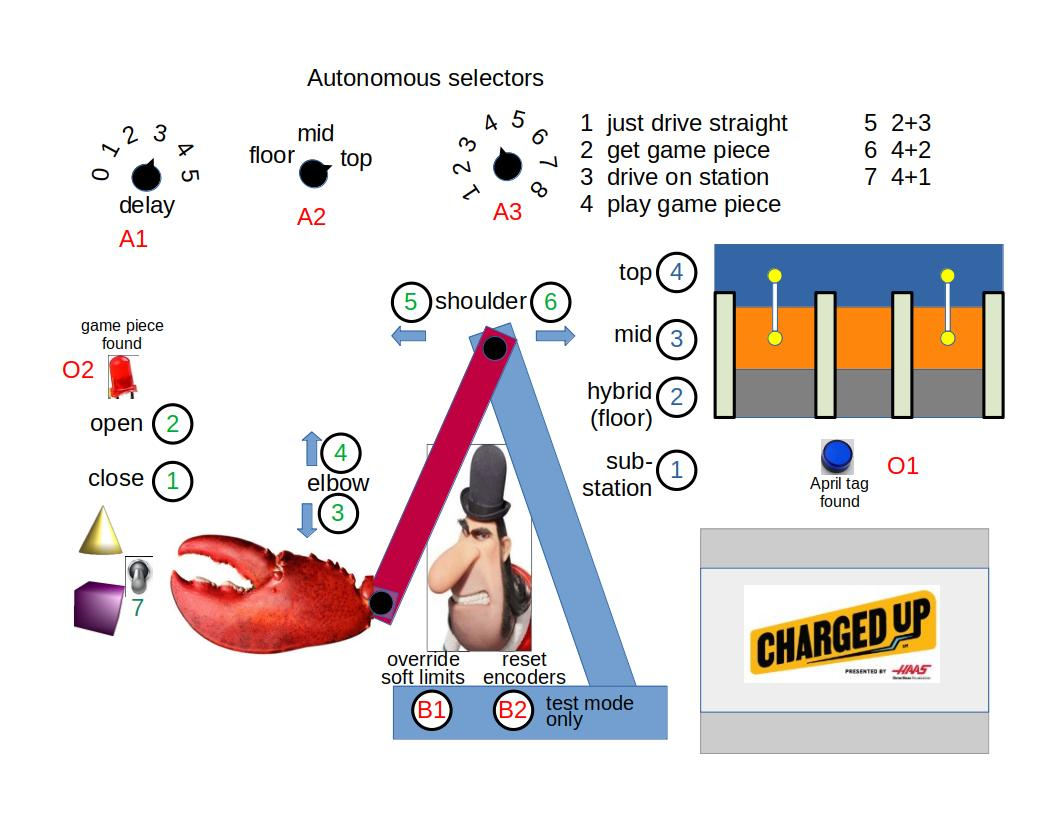
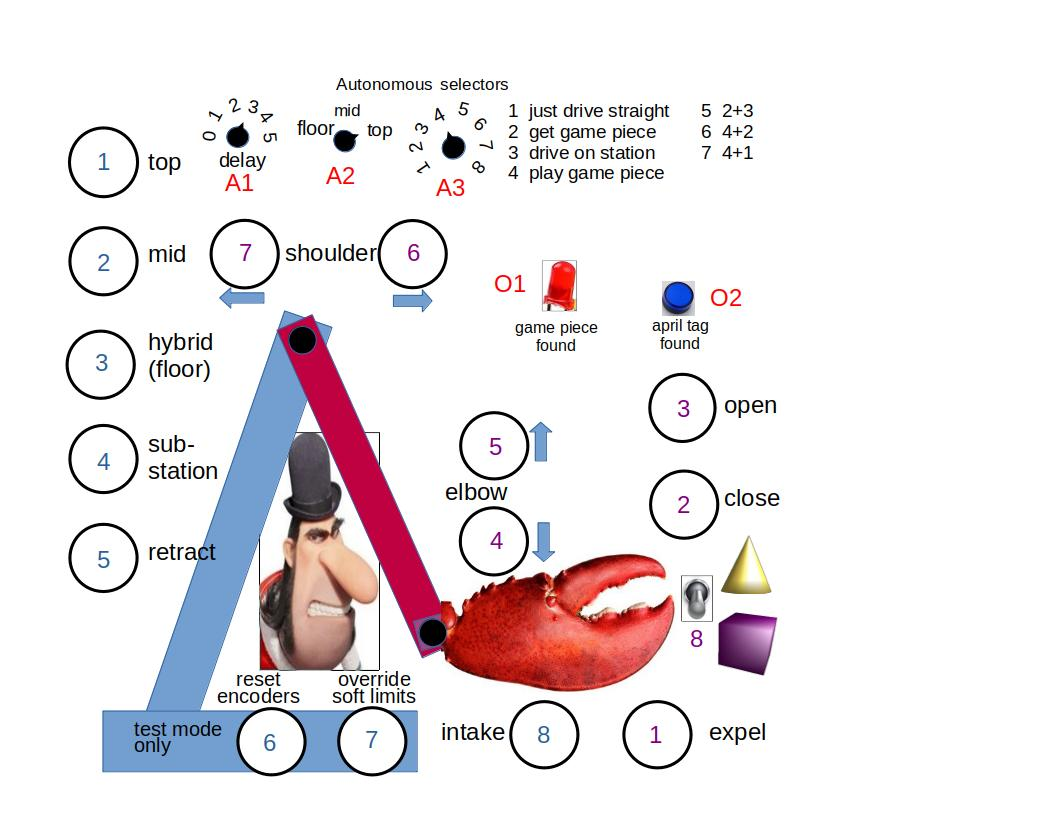
indicators for camera capture

diff --git a/CompBot/src/main/java/frc/robot/Constants.java b/CompBot/src/main/java/frc/robot/Constants.java
@@ -260,30 +260,29 @@ public final class Constants {
         public static final int kDriverControllerPort4 = 3; // ti launchpad
 
 
-        public static final int kgetAprilTagButton            = 0; // buttonBox
         public static final int kArmExtendPos0Button          = 1; // buttonBox
         public static final int kArmExtendPos1Button          = 2; // buttonBox
         public static final int targetRetractNudge            = 3; // buttonBox
         public static final int kgripperclosebutton           = 4; // buttonBox
-        public static final int kEndDriveGeneric              = 6; // buttonBox
-        public static final int kDriveGenericx                = 7; // buttonBox
-        public static final int kDriveGenericy                = 8; // buttonBox
-        public static final int kDriveGenericxy               = 9; // buttonBox
+        public static final int kEndDriveGeneric              = 0; // buttonBox
+        public static final int kDriveGenericx                = 0; // buttonBox
+        public static final int kDriveGenericy                = 0; // buttonBox
+        public static final int kDriveGenericxy               = 0; // buttonBox
         public static final int PRESSURESwitch                = 10;// buttonbox
-        public static final int kgripperliftbutton            = 0;
-        public static final int kgripperdownbutton            = 0;
-        public static final int kNudgeLeftButton              = 0;
+        public static final int targetcRaiseNudge             = 0;
+        public static final int targetLowerNudge              = 0;
+        public static final int kgetAprilTagButton            = 0; // buttonBox
         
         
 
         public static final int kgripperopenbutton            = 1; // box2
         public static final int targetExtendNudge             = 2; // box2
         public static final int kgetRobotPositionButton       = 3; // box2
+        public static final int kArmsubstationButton          = 4;
         public static final int kArmExtendPos2Button          = 5; // bux2
         public static final int kArmDone                      = 6; // box2
         public static final int kArmfloorButton               = 7; // box2
         public static final int kDrivertostationbutton        = 0; // box2
-        public static final int kArmsubstationButton          = 4;
 
         public static final int kDriverYAxis                  = 0;
         public static final int kDriverXAxis                  = 1;
@@ -295,8 +294,10 @@ public final class Constants {
         public static final int PixyFollowButton              = 6; // driverJoytick button right-bumper
 
         public static final int choiceswitch                  = 1; // ti launchpad axis
-        public static final int delaySwitch                   = 0; // ti launchpad axis
-        public static final int levelSwitch                   = 0; // ti launchpad axis
+        public static final int delaySwitch                   = 2; // ti launchpad axis
+        public static final int levelSwitch                   = 3; // ti launchpad axis
+        public static final int aprilTagLight                 = 1; // TI launchpad output
+        public static final int gameObjectLight               = 2; // TI launchpad output
 
         // test mode buttonbox buttons
 

diff --git a/CompBot/src/main/java/frc/robot/RobotContainer.java b/CompBot/src/main/java/frc/robot/RobotContainer.java
@@ -28,11 +28,10 @@ import frc.robot.commands.DriverStation;
 import frc.robot.commands.GetAprilTag;
 import frc.robot.commands.GetRobotPosition;
 import frc.robot.commands.GripperOpenClose;
-import frc.robot.commands.GripperUpAndDown;
-import frc.robot.commands.NudgeDrive;
 //import frc.robot.commands.SwerveJoystickCmd;
 import frc.robot.subsystems.SwerveSubsystem;
 import frc.robot.subsystems.Arm;
+import frc.robot.subsystems.GamePieceCam;
 import frc.robot.subsystems.Gripper;
 import frc.robot.subsystems.AprilTagCamera;
 
@@ -49,6 +48,7 @@ public class RobotContainer {
     private Gripper gripper;
     private AprilTagCamera camera;
     boolean old;  // true if original swerve constants
+    private GamePieceCam pixycam;
     
     public RobotContainer(boolean Old) {
         /*  swapped out to put drive function in teleopPeriodic
@@ -66,6 +66,7 @@ public class RobotContainer {
         if (old?Constants.ARM_AVAILABLE:Constants.ARM_AVAILABLE_Comp) arm = new Arm();
         if (old?Constants.GRIPPER_AVAILABLE:Constants.GRIPPER_AVAILABLE_Comp) gripper = new Gripper();
         if (old?Constants.PHOTONVISION_AVAILABLE:Constants.PHOTONVISION_AVAILABLE_Comp) camera = new AprilTagCamera();
+        if (old?Constants.PIXY_AVAILABLE:Constants.PIXY_AVAILABLE_Comp) pixycam = new GamePieceCam();
         configureButtonBindings();
     }
     public RobotContainer() {
@@ -103,7 +104,7 @@ public class RobotContainer {
         
                 // mechJoytick Buttons
          if (old?Constants.ARM_AVAILABLE:Constants.ARM_AVAILABLE_Comp) { 
-                // TODO: Add button for substation
+                // TODO: protect againt movement directly from floor to retracted
                 new JoystickButton(buttonBox2, OIConstants.kArmfloorButton).   //floor level
                   onTrue(new InstantCommand(() -> arm.makeMeDone()).
                   andThen(new WaitCommand(.5)).
@@ -130,6 +131,10 @@ public class RobotContainer {
                   onTrue(new InstantCommand(() -> arm.retargetRetract(1.)));
                 new JoystickButton(buttonBox, OIConstants.targetRetractNudge).
                   onTrue(new InstantCommand(() -> arm.retargetRetract(-1.)));
+                new JoystickButton(buttonBox2, OIConstants.targetcRaiseNudge).
+                  onTrue(new InstantCommand(() -> arm.retargetRaise(1.)));
+                new JoystickButton(buttonBox, OIConstants.targetLowerNudge).
+                  onTrue(new InstantCommand(() -> arm.retargetRaise(-1.)));
         
                 // onTrue(arm.extensionCommand(ArmConstants.cubeDepth2));
                 // onTrue(arm.extensionCommand(ArmConstants.cubeDepth1));
@@ -279,4 +284,11 @@ public class RobotContainer {
         } else return null;
     }
 
+    public GamePieceCam getGamePieceCam() {
+        return pixycam;
+    }
+
+    public void displayGameCamSuccess(boolean lightIt) {
+        switchBox.setOutput(OIConstants.gameObjectLight, lightIt);
+    }
 }

diff --git a/CompBot/src/main/java/frc/robot/Robot.java b/CompBot/src/main/java/frc/robot/Robot.java
@@ -7,6 +7,7 @@ import edu.wpi.first.wpilibj2.command.CommandScheduler;
 import frc.robot.Constants.DriveConstants;
 import frc.robot.Constants.OIConstants;
 import frc.robot.subsystems.Arm;
+import frc.robot.subsystems.GamePieceCam;
 import frc.robot.subsystems.Gripper;
 import frc.robot.subsystems.SwerveSubsystem;
 import edu.wpi.first.cameraserver.CameraServer;
@@ -53,6 +54,7 @@ public class Robot extends TimedRobot {
 
     private PowerDistribution PDH;
     private AnalogInput pixyCam;
+    private GamePieceCam gamepieceCam;
     private boolean choice;  // choose which robot to control, true is competion bot
 
     /**
@@ -77,7 +79,10 @@ public class Robot extends TimedRobot {
         }
        
         // System.out.println("PDP = " + PDP.getType());  // a quick death for Comp Bot
-        if (choice?Constants.PIXY_AVAILABLE:Constants.PIXY_AVAILABLE_Comp) pixyCam = new AnalogInput(0);
+        if (choice?Constants.PIXY_AVAILABLE:Constants.PIXY_AVAILABLE_Comp){
+            pixyCam = new AnalogInput(0);
+            gamepieceCam = m_robotContainer.getGamePieceCam();   // TODO: one or the other (choose me)
+        } 
         m_robotContainer = new RobotContainer(!choice);
         pigeon = new WPI_Pigeon2(1);
         PortForwarder.add(1182, "photonvision.local",5800 );
@@ -104,6 +109,7 @@ public class Robot extends TimedRobot {
         // robot's periodic
         // block in order for anything in the Command-based framework to work.
         CommandScheduler.getInstance().run();
+        m_robotContainer.displayGameCamSuccess(gamepieceCam.getYaw()>-999.);  // TODO check it out
     }
 
     /** This function is called once each time the robot enters Disabled mode. */
@@ -205,10 +211,12 @@ public class Robot extends TimedRobot {
             if (driverJoytick.getRawButton(OIConstants.PixyFollowButton)){
                 int err = pixyCam.getAverageValue();
                 SmartDashboard.putNumber("PixyX",  pixyCam.getAverageValue());
+                double errY = gamepieceCam.getYaw();
                 //double turnSpeedB = (err<1500)?.1:(err>1700?-0.1:0.);
                 turningSpeed = Math.max(-.3,
                                 Math.min(.3,
-                                (err-1600)*-3.e-4  )); 
+                                //(err-1600)*-3.e-4  )); 
+                                errY/22. )); 
                 smoothedTurningSpeed = turningSpeed; // We're not smoothing yet
                 SmartDashboard.putNumber("turnSpeed",smoothedTurningSpeed);
             }

diff --git a/CompBot/src/main/java/frc/robot/subsystems/Gripper.java b/CompBot/src/main/java/frc/robot/subsystems/Gripper.java
@@ -8,10 +8,10 @@ import com.revrobotics.CANSparkMax;
 import com.revrobotics.CANSparkMax.IdleMode;
 import com.revrobotics.CANSparkMaxLowLevel.MotorType;
 
-import edu.wpi.first.wpilibj.Compressor;
+//import edu.wpi.first.wpilibj.Compressor;
 import edu.wpi.first.wpilibj.DoubleSolenoid;
 import edu.wpi.first.wpilibj.PneumaticHub;
-import edu.wpi.first.wpilibj.PneumaticsControlModule;
+//import edu.wpi.first.wpilibj.PneumaticsControlModule;
 import edu.wpi.first.wpilibj.PneumaticsModuleType;
 import edu.wpi.first.wpilibj.DoubleSolenoid.Value;
 import edu.wpi.first.wpilibj2.command.SubsystemBase;
@@ -21,10 +21,9 @@ import frc.robot.Constants.Pneumatics;
 public class Gripper extends SubsystemBase {
   /** manipulates and grabs game objects.
    *  opening and closing with pneumatics.
-   *  TODO: change the grip strength for cones and blocks
    */
   private PneumaticHub pch = new PneumaticHub(1);
-  private Compressor compressor = pch.makeCompressor();
+  //private Compressor compressor = pch.makeCompressor();
   private DoubleSolenoid gripper; 
   private boolean inOrSpit;
   private CANSparkMax roller = new CANSparkMax(CANIDs.GripperRollerMotor, MotorType.kBrushless);
@@ -55,7 +54,10 @@ public class Gripper extends SubsystemBase {
     roller.set(-1.);
   }
 
-  // false is spit, true is in
+  /**  toggles direction of roller motor
+   *   and reports value
+   *   false is spit, true is in
+   */
   public boolean expel() {
     if (inOrSpit == true) {inOrSpit = false;}
     else inOrSpit = true;

diff --git a/CompBot/src/main/java/frc/robot/subsystems/AprilTagCamera.java b/CompBot/src/main/java/frc/robot/subsystems/AprilTagCamera.java
@@ -5,16 +5,16 @@
 package frc.robot.subsystems;
 
 import org.photonvision.PhotonCamera;
-import org.photonvision.PhotonTargetSortMode;
+//import org.photonvision.PhotonTargetSortMode;
 import org.photonvision.PhotonUtils;
 import org.photonvision.targeting.PhotonPipelineResult;
 import org.photonvision.targeting.PhotonTrackedTarget;
 
 import edu.wpi.first.math.geometry.Pose2d;
 import edu.wpi.first.math.geometry.Rotation2d;
-import edu.wpi.first.math.geometry.Transform2d;
+//import edu.wpi.first.math.geometry.Transform2d;
 import edu.wpi.first.math.geometry.Transform3d;
-import edu.wpi.first.math.geometry.Translation2d;
+//import edu.wpi.first.math.geometry.Translation2d;
 import edu.wpi.first.math.util.Units;
 import edu.wpi.first.wpilibj.smartdashboard.SmartDashboard;
 import edu.wpi.first.wpilibj2.command.SubsystemBase;
@@ -97,6 +97,9 @@ public class AprilTagCamera extends SubsystemBase {
     return distancetoCargo;
   }
   
+  public boolean seesTarget() {
+    return camera.getLatestResult().hasTargets();
+  }
  
 
   @Override

diff --git a/CompBot/src/main/java/frc/robot/subsystems/Arm.java b/CompBot/src/main/java/frc/robot/subsystems/Arm.java
@@ -7,7 +7,7 @@ package frc.robot.subsystems;
 //import java.util.concurrent.CancellationException;
 
 import com.revrobotics.CANSparkMax;
-import com.revrobotics.REVLibError;
+//import com.revrobotics.REVLibError;
 import com.revrobotics.RelativeEncoder;
 import com.revrobotics.SparkMaxPIDController;
 import com.revrobotics.CANSparkMax.ControlType;
@@ -128,7 +128,6 @@ public class Arm extends SubsystemBase {
   double latestTargetR;  // target position for raiser
   /** run retractor motor closed loop controller */
   public void closedLoopController(double Target, double RaiserTarget) {
-    // TODO: do the raiser and retractor use the same PID controller?
     IamDone = false;
     latestTargetE = Target;
     latestTargetR = RaiserTarget;

diff --git a/CompBot/src/main/java/frc/robot/commands/GripperOpenClose.java b/CompBot/src/main/java/frc/robot/commands/GripperOpenClose.java
@@ -11,7 +11,7 @@ public class GripperOpenClose extends CommandBase {
   /** Open and closes the gripper. */
   private Gripper gripper;
   private boolean open;
-  private boolean expel;
+  //private boolean expel;
   public GripperOpenClose(Gripper gripper, boolean open) {
     // Use addRequirements() here to declare subsystem dependencies.
     this.gripper = gripper;
